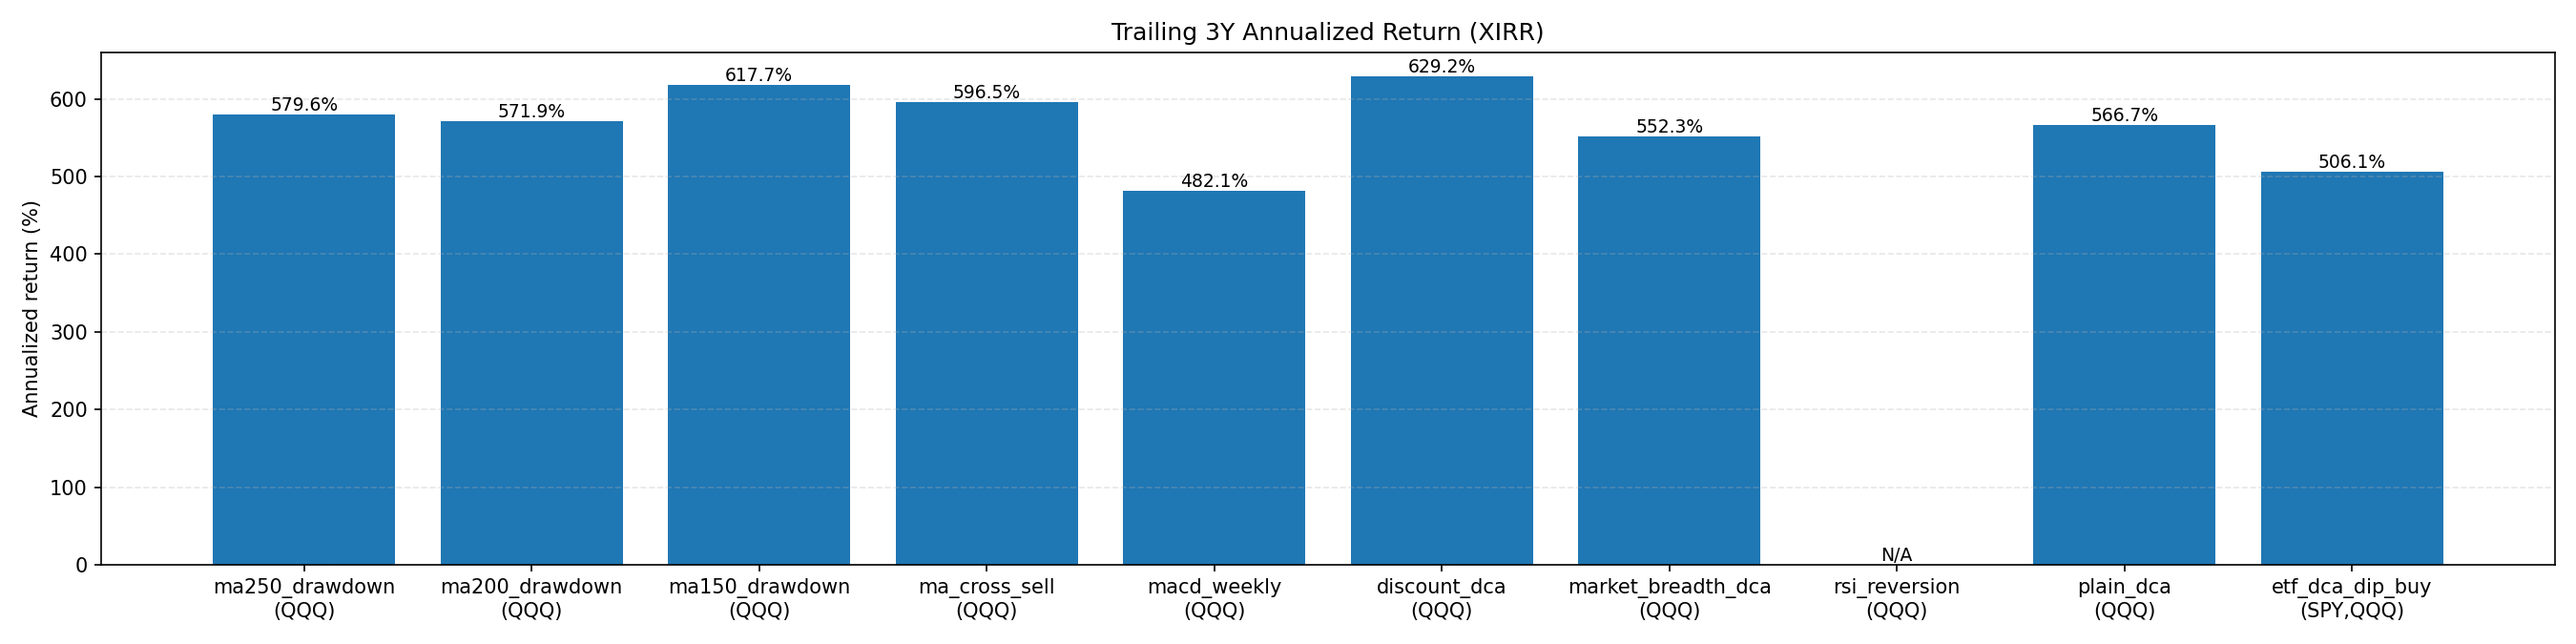
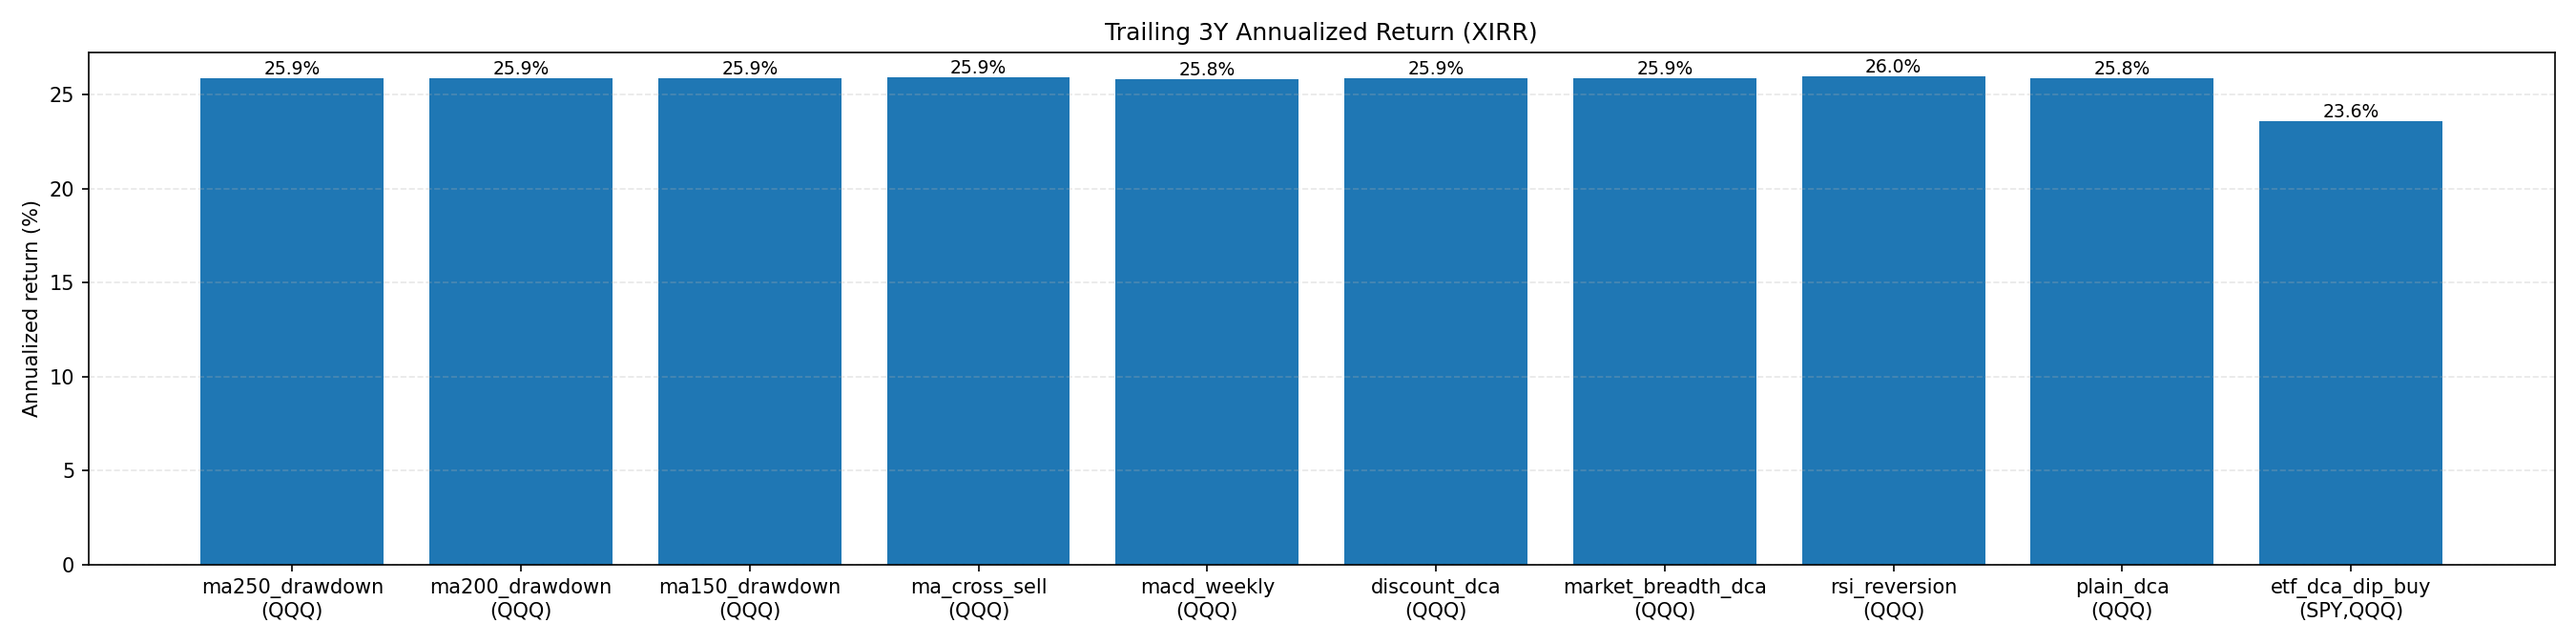
fix: compute trailing XIRR with starting portfolio value

diff --git a/backtest/engine.py b/backtest/engine.py
@@ -104,6 +104,41 @@ def yearly_xirr_from_cashflows(
     return results
 
 
+def trailing_xirr_from_cashflows(
+    *,
+    cashflows: Sequence[Cashflow],
+    daily_values: Sequence[Tuple[date, float]],
+    trailing_years: int = 3,
+) -> float | None:
+    if not daily_values:
+        return None
+
+    end_d, end_v = daily_values[-1]
+    trailing_start = end_d - timedelta(days=int(trailing_years * 365.25))
+
+    start_idx = 0
+    for i, (d, _v) in enumerate(daily_values):
+        if d >= trailing_start:
+            start_idx = i
+            break
+
+    start_d, start_v = daily_values[start_idx]
+    cfs = [(d, cf) for d, cf in cashflows if start_d <= d <= end_d]
+
+    trailing_cfs: List[Cashflow] = []
+    if float(start_v) > 0:
+        trailing_cfs.append((start_d, -float(start_v)))
+    trailing_cfs.extend(cfs)
+    trailing_cfs.append((end_d, float(end_v)))
+
+    r = xirr(trailing_cfs)
+    if r is not None:
+        return r
+
+    fallback_cfs = [(d, cf) for d, cf in cashflows if d >= trailing_start] + [(end_d, float(end_v))]
+    return xirr(fallback_cfs)
+
+
 def monthly_invest_dates(trading_dates: Sequence[date], invest_day: int = 10) -> List[date]:
     if not trading_dates:
         return []
@@ -179,9 +214,11 @@ def backtest_monthly_dca_with_ratios(
 
     full_xirr = xirr(cashflows_end)
 
-    trailing_start = end - timedelta(days=int(trailing_years * 365.25))
-    trailing_cashflows = [(d, cf) for d, cf in cashflows if d >= trailing_start] + [(end, final_value)]
-    trailing_xirr = xirr(trailing_cashflows)
+    trailing_xirr = trailing_xirr_from_cashflows(
+        cashflows=cashflows,
+        daily_values=daily_values,
+        trailing_years=trailing_years,
+    )
 
     yearly = yearly_xirr_from_cashflows(cashflows=cashflows, daily_values=daily_values)
 
@@ -238,9 +275,11 @@ def backtest_daily_dca_with_ratios(
 
     full_xirr = xirr(cashflows_end)
 
-    trailing_start = end - timedelta(days=int(trailing_years * 365.25))
-    trailing_cashflows = [(d, cf) for d, cf in cashflows if d >= trailing_start] + [(end, final_value)]
-    trailing_xirr = xirr(trailing_cashflows)
+    trailing_xirr = trailing_xirr_from_cashflows(
+        cashflows=cashflows,
+        daily_values=daily_values,
+        trailing_years=trailing_years,
+    )
 
     yearly = yearly_xirr_from_cashflows(cashflows=cashflows, daily_values=daily_values)
 
@@ -343,9 +382,11 @@ def backtest_two_asset_dca_with_pool(
 
     full_xirr = xirr(cashflows_end)
 
-    trailing_start = end - timedelta(days=int(trailing_years * 365.25))
-    trailing_cashflows = [(d, cf) for d, cf in cashflows if d >= trailing_start] + [(end, final_value)]
-    trailing_xirr = xirr(trailing_cashflows)
+    trailing_xirr = trailing_xirr_from_cashflows(
+        cashflows=cashflows,
+        daily_values=daily_values,
+        trailing_years=trailing_years,
+    )
 
     yearly = yearly_xirr_from_cashflows(cashflows=cashflows, daily_values=daily_values)
 
